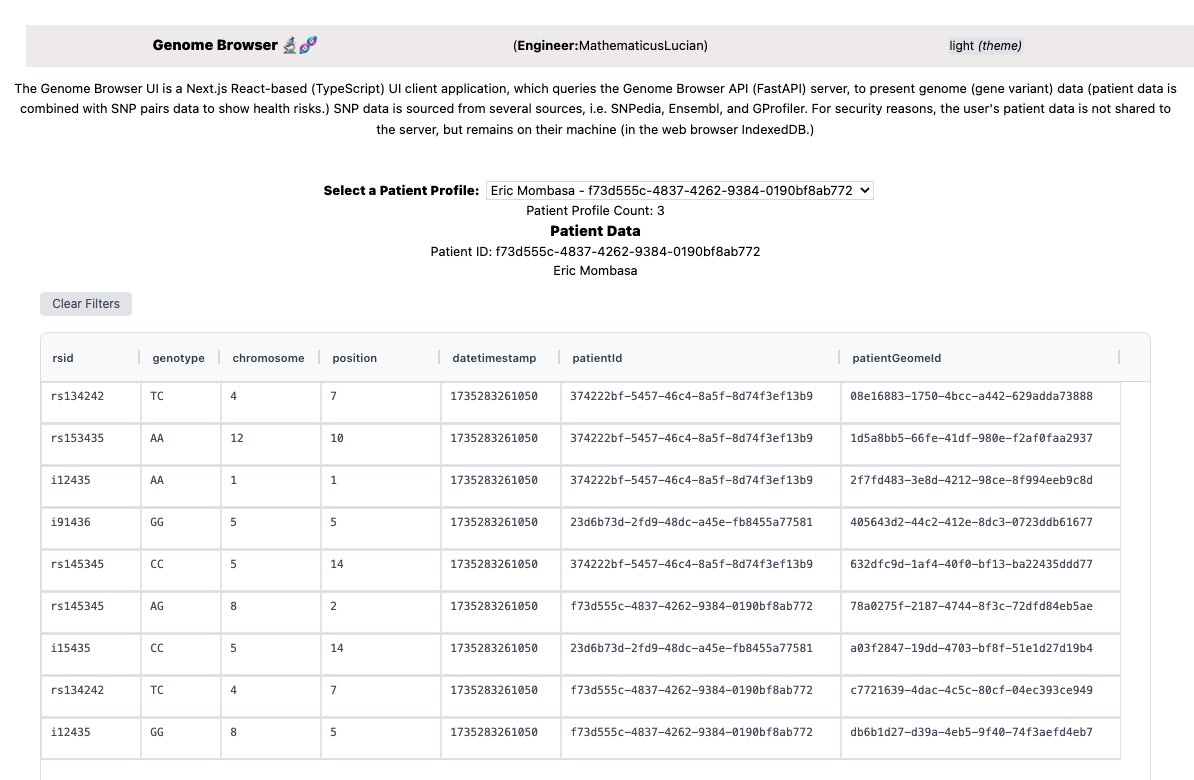
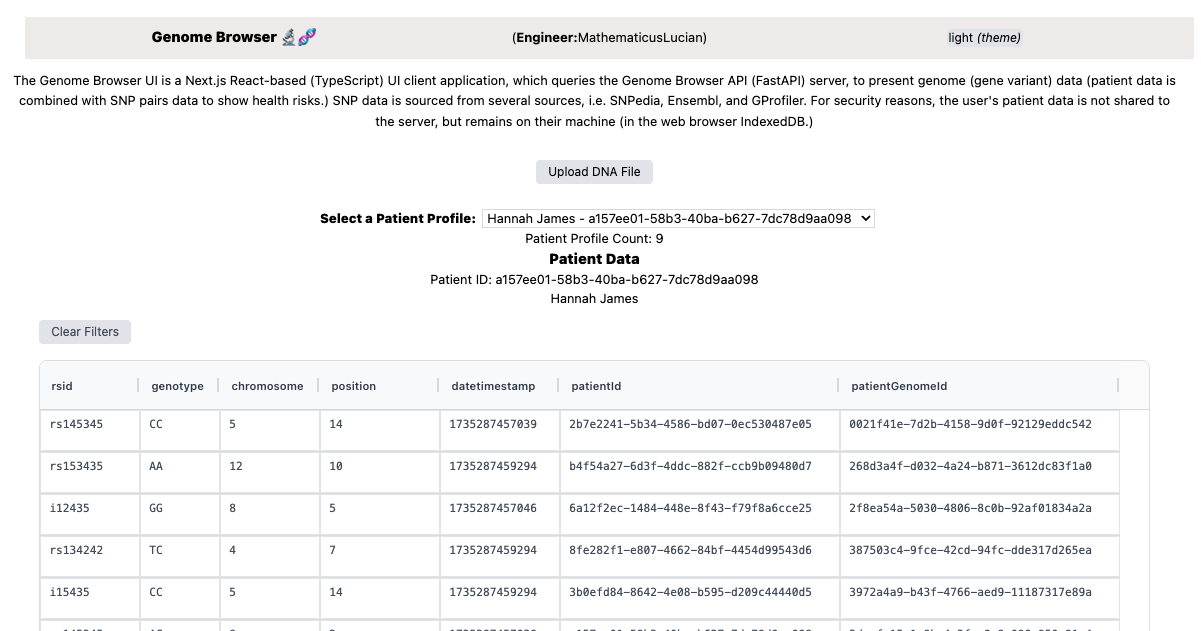
Integrated to IndexedDB the dropdown select for which user to display report for

diff --git a/database/db.ts b/database/db.ts
@@ -8,7 +8,7 @@ interface IPatientProfile {
 }
 
 interface IPatientGenome {
-  patientGeomeId: string;
+  patientGenomeId: string;
   rsid: string;
   genotype: string;
   chromosome: string;
@@ -69,7 +69,7 @@ const patientsIndexedDb = new Dexie('PatientDatabase') as Dexie & {
 // Schema declaration:
 patientsIndexedDb.version(1).stores({
   patientProfile: "++patientId, patientName, datetimestamp", // "patientProfile": primary key "id" 
-  patientGenome: "++patientGeomeId, rsid, genotype, patientId, chromosome, position, datetimestamp"
+  patientGenome: "++patientGenomeId, rsid, genotype, patientId, chromosome, position, datetimestamp"
 });
 
 patientsIndexedDb.open();
@@ -98,7 +98,7 @@ const patientIds = [
 // }]);
 
 // const patientGenomeAddDemoRow = patientsIndexedDb.patientGenome.add({
-//   patientGeomeId: uuidv4(),
+//   patientGenomeId: uuidv4(),
 //   rsid: 'i12435',
 //   patientId: patientIds[0],
 //   chromosome: '1',
@@ -108,7 +108,7 @@ const patientIds = [
 // }); 
 
 // const patientGenomeBulkAddRowsDemo = patientsIndexedDb.patientGenome.bulkPut([{
-//     patientGeomeId: uuidv4(),
+//     patientGenomeId: uuidv4(),
 //     rsid: 'rs134242',
 //     patientId: patientIds[0],
 //     chromosome: '4',
@@ -116,7 +116,7 @@ const patientIds = [
 //     genotype: 'TC',
 //     datetimestamp: Date.now()
 //   },{
-//     patientGeomeId: uuidv4(),
+//     patientGenomeId: uuidv4(),
 //     rsid: 'rs145345',
 //     patientId: patientIds[0],
 //     chromosome: '5',
@@ -124,7 +124,7 @@ const patientIds = [
 //     genotype: 'CC',
 //     datetimestamp: Date.now()
 //   },{
-//     patientGeomeId: uuidv4(),
+//     patientGenomeId: uuidv4(),
 //     rsid: 'rs153435',
 //     patientId: patientIds[0],
 //     chromosome: '12',
@@ -132,7 +132,7 @@ const patientIds = [
 //     genotype: 'AA',
 //     datetimestamp: Date.now()
 //   },{
-//     patientGeomeId: uuidv4(),
+//     patientGenomeId: uuidv4(),
 //     rsid: 'i12435',
 //     patientId: patientIds[1],
 //     chromosome: '8',
@@ -140,7 +140,7 @@ const patientIds = [
 //     genotype: 'GG',
 //     datetimestamp: Date.now()
 //   },{
-//     patientGeomeId: uuidv4(),
+//     patientGenomeId: uuidv4(),
 //     rsid: 'rs134242',
 //     patientId: patientIds[1],
 //     chromosome: '4',
@@ -148,7 +148,7 @@ const patientIds = [
 //     genotype: 'TC',
 //     datetimestamp: Date.now()
 //   },{
-//     patientGeomeId: uuidv4(),
+//     patientGenomeId: uuidv4(),
 //     rsid: 'rs145345',
 //     patientId: patientIds[1],
 //     chromosome: '8',
@@ -156,7 +156,7 @@ const patientIds = [
 //     genotype: 'AG',
 //     datetimestamp: Date.now()
 //   },{
-//     patientGeomeId: uuidv4(),
+//     patientGenomeId: uuidv4(),
 //     rsid: 'i15435',
 //     patientId: patientIds[2],
 //     chromosome: '5',
@@ -164,7 +164,7 @@ const patientIds = [
 //     genotype: 'CC',
 //     datetimestamp: Date.now()
 //   },{
-//     patientGeomeId: uuidv4(),
+//     patientGenomeId: uuidv4(),
 //     rsid: 'i91436',
 //     patientId: patientIds[2],
 //     chromosome: '5',

diff --git a/pages/patient/report/[[...patient_id]].tsx b/pages/patient/report/[[...patient_id]].tsx
@@ -33,39 +33,35 @@ const GeneVariantRisksReportPage: React.FC<GeneVariantRisksReportPageProps> = (p
         // updateModalContent(<div><h2 className="text-2xl font-bold text-gray-900">Upload Patient File</h2><div className="mt-2 px-7 py-3"><UploadForm /></div></div>);
         // toggleModalVisible(true);
     }  
-
-    // useLiveQuery(
-    //     async () => {
-    //         if(isIndexedDatabase) { 
-    //             await patientsIndexedDb.patientProfile.toCollection().count(function (count) {
-    //                 console.log(count);
-    //                 setPatientProfilesCount(String(count));
-    //             });
-    //             const result = await patientsIndexedDb.patientProfile.toArray(); 
-    //             setPatientProfiles(result); 
-    //         }
-    //     }, 
-    // ); 
-    const patientProfiles = useLiveQuery(() => patientsIndexedDb.patientProfile.toArray()); 
-    const patientProfilesCount = useLiveQuery(() => patientsIndexedDb.patientProfile.count());
  
+    const patientProfiles = useLiveQuery( 
+        async () => patientsIndexedDb.patientProfile.toArray()
+    );
+    const patientProfilesCount = useLiveQuery(
+        async() => patientsIndexedDb.patientProfile.count()
+    ); 
     useEffect(() => {
         if (router.isReady) {  
             const patientId = Array.isArray(router.query.patient_id) ? router.query.patient_id[0] : router.query.patient_id; 
-            console.log(patientProfiles);
-            const selectedPatientProfile = patientId && patientProfiles && patientProfiles.filter((x) => x.patientId = patientId)[0];
-            selectedPatientProfile && setSelectedPatientProfile(selectedPatientProfile);
+
+            if(patientProfiles) {
+                console.log(JSON.stringify(patientProfiles));
+                const s = patientProfiles.find((x) => x.patientId == patientId);
+                console.log('s', s);
+                setSelectedPatientProfile(s);
+            } 
         }
     }, [router.isReady, router.asPath, patientProfiles, patientProfilesCount]);   
     
     return (
         <Layout>
-            {/* <button
+            <button
             className="rounded bg-gray-200 px-3 py-1 mt-3 text-xs"
             onClick={uploadDNAFile}
             >
                 Upload DNA File
-            </button> */}
+            </button> 
+
             {!selectedPatientProfile || error ? (
                 <div>Error: {error}</div>
             ) : (

diff --git a/components/GenomeList.tsx b/components/GenomeList.tsx
@@ -25,7 +25,7 @@ const GenomeList: FC<GenomeListProps> = (props) => {
       {"headerName":"position","field":"position", flex: 2, maxWidth: 120},
       {"headerName":"datetimestamp","field":"datetimestamp", flex: 1, maxWidth: 120}, 
       {"headerName":"patientId","field":"patientId", flex: 1, maxWidth: 280}, 
-      {"headerName":"patientGeomeId","field":"patientGeomeId", flex: 1, maxWidth: 280},
+      {"headerName":"patientGenomeId","field":"patientGenomeId", flex: 1, maxWidth: 280},
   ];
   // const columns = [
   //     {"headerName":"rsid","field":"rsid", flex: 2, maxWidth: 120},
@@ -104,14 +104,14 @@ const GenomeList: FC<GenomeListProps> = (props) => {
         <>
           {/* <ul> 
             {patientGenomes?.map((patientGenome) => (
-              <li key={patientGenome.patientGeomeId}>
+              <li key={patientGenome.patientGenomeId}>
                 {patientGenome.rsid} |
                 {patientGenome.genotype}, 
                 {patientGenome.chromosome}, 
                 {patientGenome.position}
                 {patientGenome.datetimestamp},
                 {patientGenome.patientId}, 
-                {patientGenome.patientGeomeId}, 
+                {patientGenome.patientGenomeId}, 
               </li>
             ))}
           </ul> */}

diff --git a/components/Select.tsx b/components/Select.tsx
@@ -14,18 +14,17 @@ const Select: React.FC<SelectProps> = ({ patientProfiles, selectedOptionProfile,
 
     useEffect(() => {  
         setSelectedOptionId(selectedOptionProfile.patientId);
-    }, [selectedOptionProfile]); 
+    }, [selectedOptionProfile]);  
 
-    return  !patientProfiles || error ? (
+    return !patientProfiles || error ? (
             <div>Error: {error}</div>
         ) : (
-            <div className="dropdown">
+            <div className="dropdown"> 
                 <label htmlFor="patient-select">Select a Patient Profile:</label>
                 <select id="patient-select" onChange={handlePatientChange}>
                     <option value="">--Please choose a patient--</option>
                     {patientProfiles.map((profile: IPatientProfile) => (
-                        <option key={profile.patientId} value={profile.patientId}>
-                             {/* selected={profile.patientId==selectedOptionId} */}
+                        <option key={profile.patientId} value={profile.patientId} selected={profile.patientId==selectedOptionId}>
                             {profile.patientName} - {profile.patientId}
                         </option>
                     ))}

diff --git a/components/PatientList.tsx b/components/PatientList.tsx
@@ -97,15 +97,14 @@ const PatientList: FC = () => {
   return (
     <>
       <div className="table-header">List of Patients</div>
-      <ul> 
+      {/* <ul> 
         {patientProfiles?.map((patientProfile) => (
           <li key={patientProfile.patientId}>
             {patientProfile.patientId}, 
             {patientProfile.patientName}
           </li>
         ))}
-      </ul> 
-
+      </ul>  */}
       {/* <div>Error: {error} No genome data in database.</div> */}
       {patientProfilesCount && (<div className="profile-count">{patientProfilesCount} patient profiles in total</div>)}
       <hr />

diff --git a/README.md b/README.md
@@ -23,9 +23,15 @@ For security reasons, the user's patient data is not shared to the server, but r
 
 ## Pages/Views
 
-### Open the DNA (VCF) test file, i.e display gene variants (SNPs)
+### Browse a DNA (VCF) test file, i.e display gene variants (SNPs)
 
-The rows represent the gene variants associated with the patient. (The `rsid` columns is the identifier for the SNP pairs; and a crucial factor in many cases, with respect to risk, is the `genotype` that the user has inherited from their parents - hence, generaly, this consists of two letters, i.e. one from each parent.)
+From the dropdown, the user can select which profile to view:
+
+![select_patient](./assets/select_patient.png)
+
+**The rows represent the gene variants associated with the patient.**
+
+(The `rsid` columns is the identifier for the SNP pairs; and a crucial factor in many cases, with respect to risk, is the `genotype` that the user has inherited from their parents - hence, generaly, this consists of two letters, i.e. one from each parent.)
 
 ![patient_genome](./assets/patient_genome.png)
 
@@ -35,7 +41,7 @@ The report compares the gene variants of the patient with published literature t
 
 ![full_report](./assets/full_report.png)
 
-If you click on a row, the app will launch a drawer featuring the details for the gene variant.
+If a user clicks on a row, the app will launch a drawer featuring the details for the gene variant.
 
 ![gene_variant_details](./assets/gene_variant_details.png)
 
